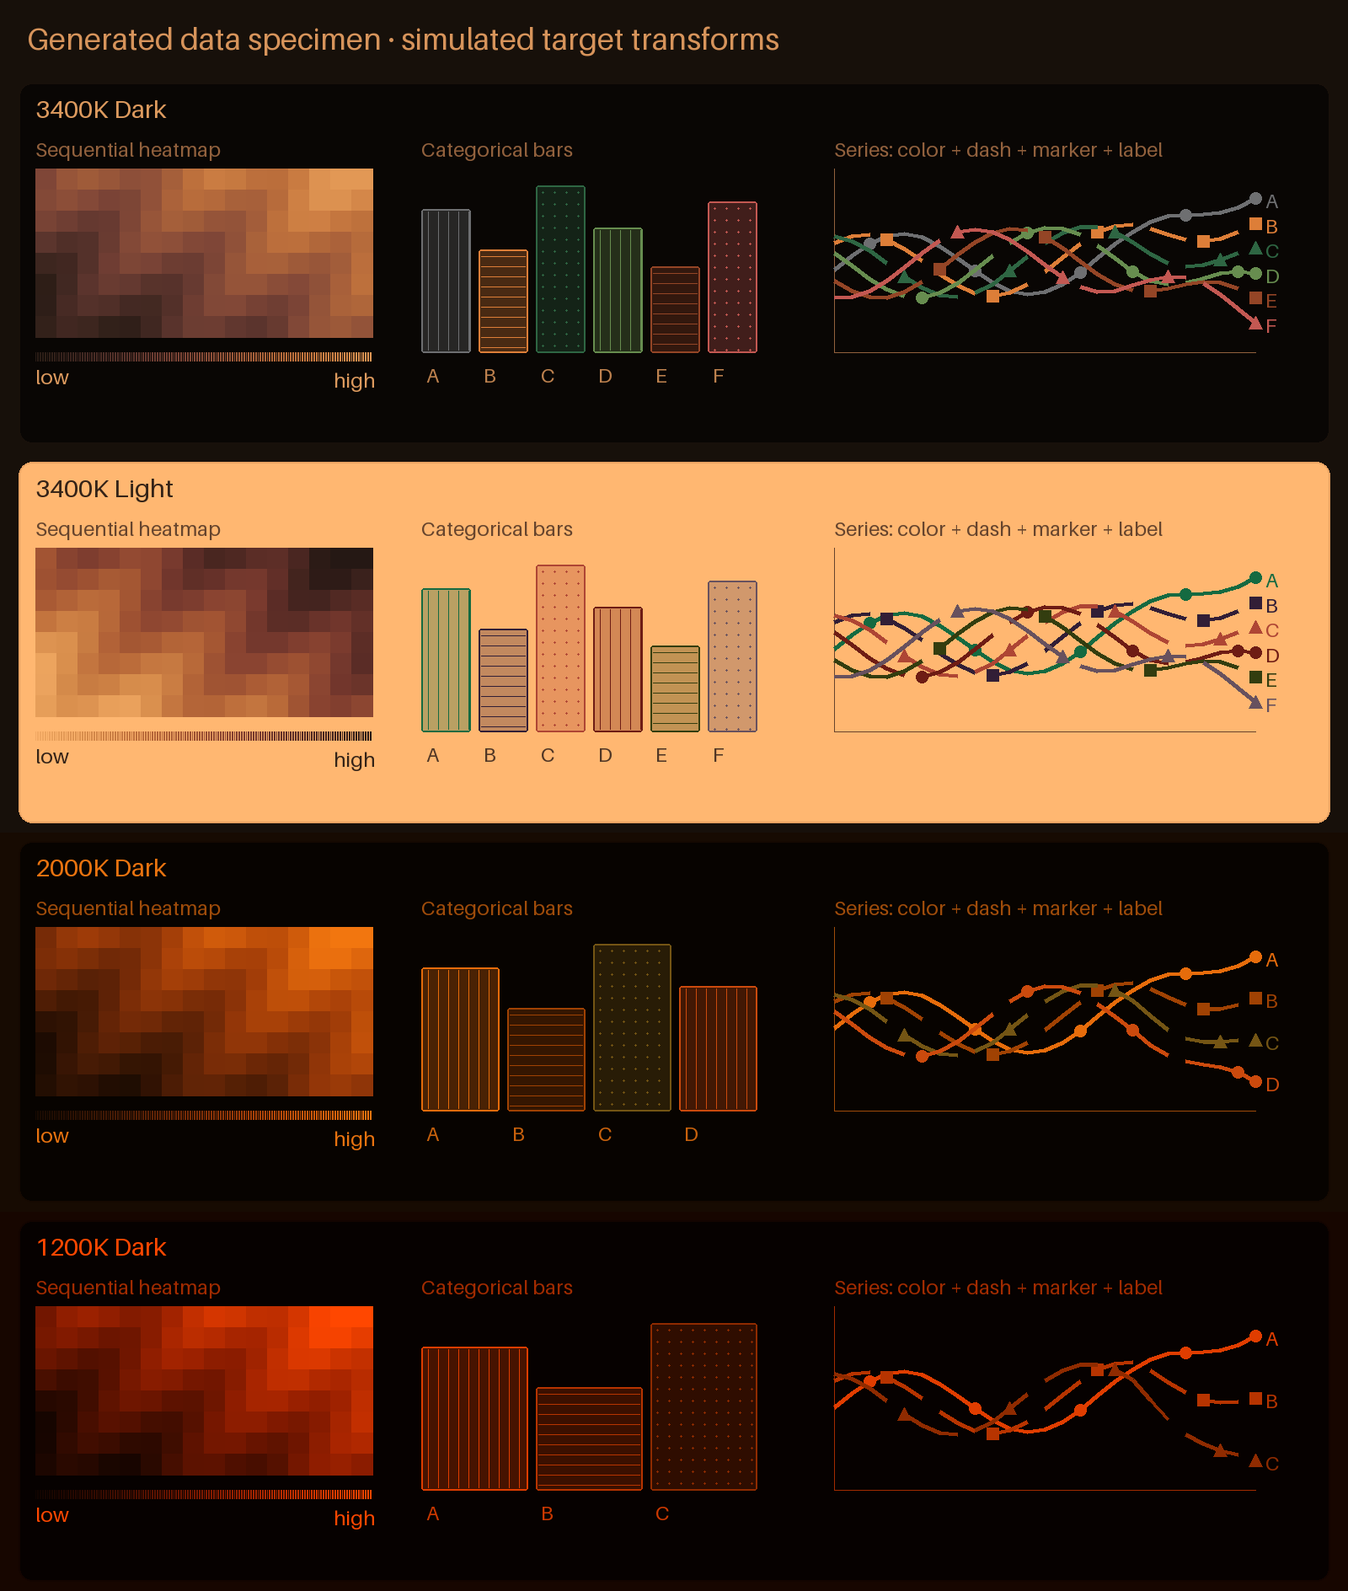
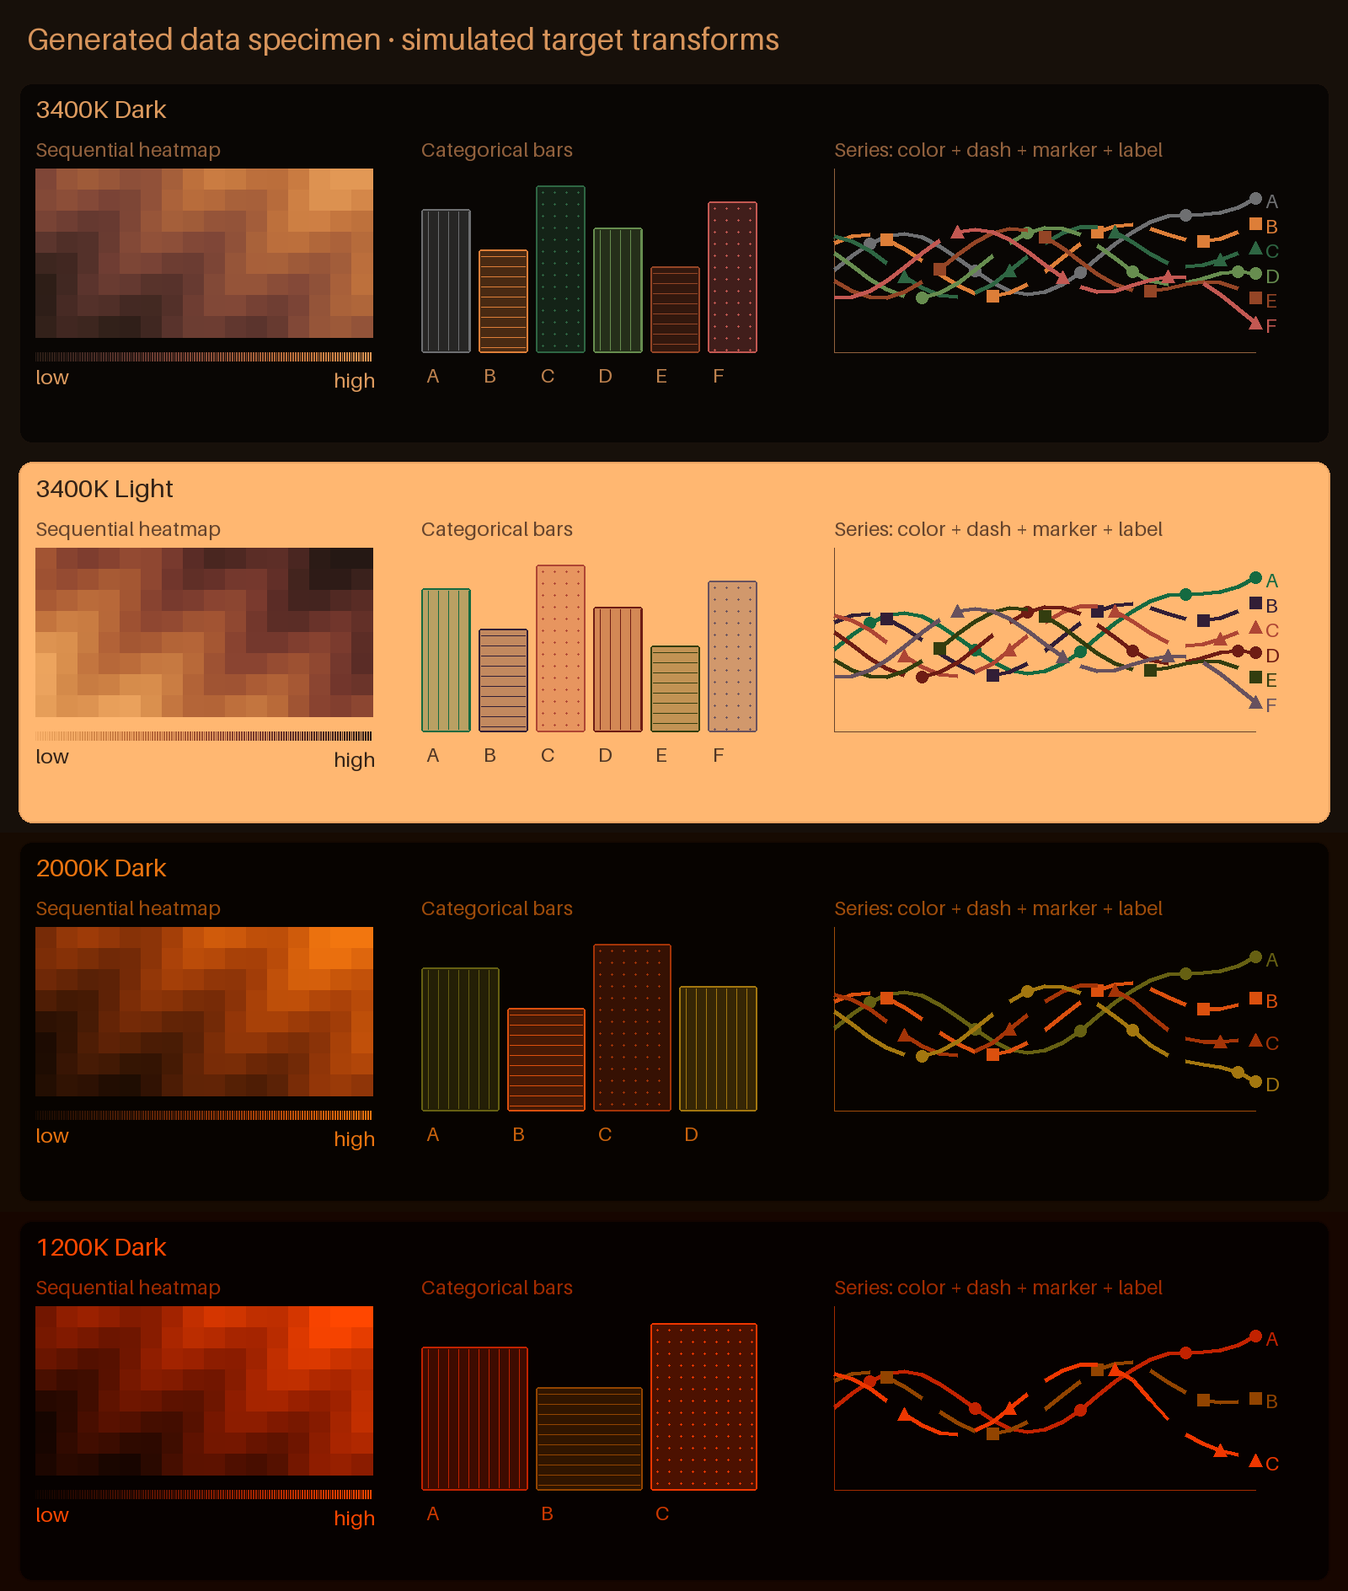
feat: widen deep categorical hues

diff --git a/palettes/redshift-safe-palettes.css b/palettes/redshift-safe-palettes.css
@@ -79,10 +79,10 @@
   --rs-foreground: #E9D3AD; /* legacy alias */
   --rs-foreground-soft: #C8B38F; /* legacy alias */
   --rs-foreground-muted: #9F8B70; /* legacy alias */
-  --rs-category-one: #E6C682;
-  --rs-category-two: #A07928;
-  --rs-category-three: #749DE1;
-  --rs-category-four: #CB8991;
+  --rs-category-one: #66B1D4;
+  --rs-category-two: #DB93A7;
+  --rs-category-three: #A46056;
+  --rs-category-four: #A3DBA9;
   --rs-sequential: linear-gradient(90deg, #17110F 0%, #2B1F1F 10%, #3F2C2E 20%, #553A3D 30%, #6C484A 40%, #845955 50%, #9B6B5C 60%, #B18165 70%, #C89D75 80%, #DDBB90 90%, #F2D9AE 100%);
 }
 
@@ -106,8 +106,8 @@
   --rs-foreground: #FFE5BE; /* legacy alias */
   --rs-foreground-soft: #CBB58F; /* legacy alias */
   --rs-foreground-muted: #A28B70; /* legacy alias */
-  --rs-category-one: #E0C47A;
-  --rs-category-two: #B7A7F3;
-  --rs-category-three: #8F8A33;
+  --rs-category-one: #C26D76;
+  --rs-category-two: #92DBFF;
+  --rs-category-three: #EFB371;
   --rs-sequential: linear-gradient(90deg, #100C0B 0%, #241817 10%, #392523 20%, #4F322F 30%, #67413A 40%, #805247 50%, #986855 60%, #B08366 70%, #CAA37E 80%, #E5C49B 90%, #FFE5B8 100%);
 }

diff --git a/tests/test_palettes.py b/tests/test_palettes.py
@@ -25,7 +25,8 @@ ROOT = Path(__file__).resolve().parents[1]
 
 def test_honest_temperature_families() -> None:
     manifest = generate_manifest()
-    assert manifest["schema_version"] == 6
+    assert manifest["schema_version"] == 7
+    assert manifest["quality_targets"]["cross_state_hue_consistency_required"] is False
     assert list(manifest["families"]) == [
         "3400k-dark",
         "3400k-light",
@@ -87,15 +88,15 @@ def test_deep_accent_selections_have_locked_two_stage_values() -> None:
     manifest = generate_manifest()
     expected = {
         "2000k-dark": {
-            "categorical": ["#E6C682", "#A07928", "#749DE1", "#CB8991"],
-            "categorical_transformed_targets": ["#E66C0B", "#A04203", "#745514", "#CB4A0D"],
+            "categorical": ["#66B1D4", "#DB93A7", "#A46056", "#A3DBA9"],
+            "categorical_transformed_targets": ["#666012", "#DB500F", "#A43407", "#A3770F"],
             "terminal": ["#EE8B98", "#A4EBA5", "#FECE75", "#C9C7F2"],
             "terminal_transformed_targets": ["#EE4C0D", "#A4800E", "#FE700A", "#C96C15"],
             "terminal_ansi_indices": [0, 1, 2, 3, 0, 1],
         },
         "1200k-dark": {
-            "categorical": ["#E0C47A", "#B7A7F3", "#8F8A33"],
-            "categorical_transformed_targets": ["#E03D00", "#B73400", "#8F2B00"],
+            "categorical": ["#C26D76", "#92DBFF", "#EFB371"],
+            "categorical_transformed_targets": ["#C22200", "#924400", "#EF3700"],
             "terminal": ["#F494B4", "#E2F495", "#FFE4C6"],
             "terminal_transformed_targets": ["#F42E00", "#E24B00", "#FF4700"],
             "terminal_ansi_indices": [0, 1, 2, 2, 0, 1],
@@ -162,14 +163,37 @@ def test_categorical_bi_state_separation_and_commanded_chroma_budget() -> None:
         lightness_range = float(np.ptp(shifted[:, 0]))
         normal_chroma_max = float(np.linalg.norm(normal[:, 1:], axis=1).max())
         normal_chroma_mean = float(np.linalg.norm(normal[:, 1:], axis=1).mean())
+        normal_hues = np.degrees(np.arctan2(normal[:, 2], normal[:, 1])) % 360.0
+        normal_hue_gap = min(
+            abs((normal_hues[left] - normal_hues[right] + 180.0) % 360.0 - 180.0)
+            for left in range(len(normal_hues))
+            for right in range(left + 1, len(normal_hues))
+        )
+        transformed_background = warm_transform(
+            hex_to_srgb(family["surfaces"]["bg_0"]), profile["rgb_gains"]
+        )
+        shifted_background_contrast = min(
+            contrast_ratio(warm_transform(color, profile["rgb_gains"]), transformed_background)
+            for color in categories
+        )
         target_error = float(np.linalg.norm(shifted - transformed_targets, axis=1).max() * 100.0)
         metrics = family["metrics"]["categorical"]
         assert shifted_min >= profile["categorical_minimum_delta_e_ok_target"], family["slug"]
         assert normal_chroma_max <= 0.111, family["slug"]
         assert 0.09 <= normal_chroma_mean <= 0.105, family["slug"]
         assert normal_min >= family["daylight_minimum_delta_e_ok_target"], family["slug"]
+        hue_gap_target = family["daylight_minimum_hue_gap_degrees_target"]
+        if hue_gap_target is not None:
+            assert normal_hue_gap >= hue_gap_target, family["slug"]
+        contrast_target = family["categorical_shifted_background_contrast_minimum_target"]
+        if contrast_target is not None:
+            assert shifted_background_contrast >= contrast_target, family["slug"]
         assert metrics["shifted_min_delta_e_ok"] == round(shifted_min, 2)
         assert metrics["normal_min_delta_e_ok"] == round(normal_min, 2)
+        assert metrics["normal_minimum_hue_gap_degrees"] == round(normal_hue_gap, 2)
+        assert metrics["minimum_shifted_background_contrast"] == round(
+            shifted_background_contrast, 2
+        )
         assert metrics["shifted_lightness_range"] == round(lightness_range, 4)
         assert metrics["normal_chroma_max"] == round(normal_chroma_max, 4)
         assert metrics["normal_chroma_mean"] == round(normal_chroma_mean, 4)

diff --git a/src/redshift_safe/generate.py b/src/redshift_safe/generate.py
@@ -55,6 +55,19 @@ def _categorical_colors(family: FamilyDefinition) -> np.ndarray:
     return np.asarray([hex_to_srgb(value) for value in family.categorical_colors])
 
 
+def _minimum_hue_gap_degrees(colors: np.ndarray) -> float:
+    """Return the minimum circular Oklab hue gap among chromatic colors."""
+
+    chromatic = colors[np.linalg.norm(colors[:, 1:], axis=1) >= 0.02]
+    hues = np.degrees(np.arctan2(chromatic[:, 2], chromatic[:, 1])) % 360.0
+    gaps = [
+        abs((hues[left] - hues[right] + 180.0) % 360.0 - 180.0)
+        for left in range(len(hues))
+        for right in range(left + 1, len(hues))
+    ]
+    return float(min(gaps))
+
+
 def _terminal_colors(family: FamilyDefinition) -> list[str]:
     """Expand authored semantic accents into the six ANSI color roles."""
 
@@ -124,12 +137,21 @@ def _metrics(
     gains = family.profile.gains
     warm_categories = perceived_lab(categories, gains)
     normal_categories = srgb_to_oklab(categories)
+    transformed_background = warm_transform(hex_to_srgb(family.surfaces["bg_0"]), gains)
     categorical_targets = srgb_to_oklab(
         np.asarray([hex_to_srgb(value) for value in family.categorical_transformed_targets])
     )
     category_metrics: dict[str, Any] = {
         "normal_min_delta_e_ok": round(float(pairwise_distances(normal_categories).min()), 2),
+        "normal_minimum_hue_gap_degrees": round(_minimum_hue_gap_degrees(normal_categories), 2),
         "shifted_min_delta_e_ok": round(float(pairwise_distances(warm_categories).min()), 2),
+        "minimum_shifted_background_contrast": round(
+            min(
+                contrast_ratio(warm_transform(color, gains), transformed_background)
+                for color in categories
+            ),
+            2,
+        ),
         "shifted_lightness_mean": round(float(warm_categories[:, 0].mean()), 4),
         "shifted_lightness_range": round(float(np.ptp(warm_categories[:, 0])), 4),
         "normal_chroma_max": round(
@@ -278,6 +300,10 @@ def generate_family(family: FamilyDefinition) -> dict[str, Any]:
         "categorical": dict(zip(CATEGORY_NAMES, category_hex)),
         "categorical_transformed_targets": list(family.categorical_transformed_targets),
         "daylight_minimum_delta_e_ok_target": family.daylight_minimum_delta_e_ok,
+        "daylight_minimum_hue_gap_degrees_target": (family.daylight_minimum_hue_gap_degrees),
+        "categorical_shifted_background_contrast_minimum_target": (
+            family.categorical_shifted_background_contrast_minimum
+        ),
         "continuous_rgb": sequential.tolist(),
         "continuous_hex8": [srgb_to_hex(color) for color in sequential],
         "metrics": _metrics(family, categories, sequential),
@@ -296,7 +322,7 @@ def generate_manifest() -> dict[str, Any]:
         for slug, profile in {family.profile.slug: family.profile for family in FAMILIES}.items()
     }
     return {
-        "schema_version": 6,
+        "schema_version": 7,
         "project": "Ember: Redshift Safe Color Palettes",
         "model_note": (
             "RGB gains are explicit engineering stress profiles, not device calibrations or "
@@ -318,6 +344,7 @@ def generate_manifest() -> dict[str, Any]:
                 "match authored transformed perceptual outcomes",
                 "optimize commanded daytime aesthetics without weakening transformed outcomes",
             ],
+            "cross_state_hue_consistency_required": False,
             "bg_roles_low_to_high": list(BACKGROUND_SURFACE_ROLES),
             "dark_minimum_adjacent_surface_delta_e_ok": (DARK_MINIMUM_ADJACENT_SURFACE_DELTA_E_OK),
             "minimum_shifted_foreground_contrast": MINIMUM_SHIFTED_FOREGROUND_CONTRAST,

diff --git a/src/redshift_safe/definitions.py b/src/redshift_safe/definitions.py
@@ -25,6 +25,8 @@ class FamilyDefinition:
     categorical_colors: tuple[str, ...]
     categorical_transformed_targets: tuple[str, ...]
     daylight_minimum_delta_e_ok: float
+    daylight_minimum_hue_gap_degrees: float | None
+    categorical_shifted_background_contrast_minimum: float | None
     terminal_colors: tuple[str, ...]
     terminal_transformed_targets: tuple[str, ...]
     terminal_ansi_indices: tuple[int, ...]
@@ -151,6 +153,8 @@ FAMILIES = (
             "#C35852",
         ),
         daylight_minimum_delta_e_ok=14.0,
+        daylight_minimum_hue_gap_degrees=None,
+        categorical_shifted_background_contrast_minimum=None,
         terminal_colors=("#F5AD9A", "#9ABEA2", "#CEA866", "#B4C6F7", "#D895C2", "#70DBD8"),
         terminal_transformed_targets=(
             "#F58052",
@@ -192,6 +196,8 @@ FAMILIES = (
             "#67515E",
         ),
         daylight_minimum_delta_e_ok=15.0,
+        daylight_minimum_hue_gap_degrees=None,
+        categorical_shifted_background_contrast_minimum=None,
         terminal_colors=("#470D05", "#174213", "#745C08", "#162252", "#643563", "#00766E"),
         terminal_transformed_targets=(
             "#470A03",
@@ -223,12 +229,14 @@ FAMILIES = (
             "fg_1": "#C8B38F",
             "fg_2": "#9F8B70",
         },
-        # Stage 1 selects four warm transformed identities with >= 8.5 dEOK
-        # categorical spacing and four role-preserving terminal identities. Stage 2
-        # uses weakly surviving blue to recover a restrained daytime hue set.
-        categorical_colors=("#E6C682", "#A07928", "#749DE1", "#CB8991"),
-        categorical_transformed_targets=("#E66C0B", "#A04203", "#745514", "#CB4A0D"),
+        # The four transformed identities remain distinct and clear 3:1 against bg_0.
+        # Their daytime preimages deliberately use unrelated hue families: weak blue is
+        # optimization freedom, not a cross-state appearance-preservation constraint.
+        categorical_colors=("#66B1D4", "#DB93A7", "#A46056", "#A3DBA9"),
+        categorical_transformed_targets=("#666012", "#DB500F", "#A43407", "#A3770F"),
         daylight_minimum_delta_e_ok=14.0,
+        daylight_minimum_hue_gap_degrees=20.0,
+        categorical_shifted_background_contrast_minimum=3.0,
         terminal_colors=("#EE8B98", "#A4EBA5", "#FECE75", "#C9C7F2"),
         terminal_transformed_targets=("#EE4C0D", "#A4800E", "#FE700A", "#C96C15"),
         terminal_ansi_indices=(0, 1, 2, 3, 0, 1),
@@ -253,12 +261,14 @@ FAMILIES = (
             "fg_1": "#CBB58F",
             "fg_2": "#A28B70",
         },
-        # Stage 1 selects three equally spaced transformed warm identities. Stage 2
-        # uses the fully removed blue channel to produce gold, lavender, and olive
-        # by day without altering those nighttime outcomes.
-        categorical_colors=("#E0C47A", "#B7A7F3", "#8F8A33"),
-        categorical_transformed_targets=("#E03D00", "#B73400", "#8F2B00"),
+        # Three warm transformed identities clear 3:1 against bg_0. Their daytime
+        # preimages use blue's exact null direction for a mature rose/sky/apricot triad;
+        # category identity is stable, but cross-state hue appearance is intentionally not.
+        categorical_colors=("#C26D76", "#92DBFF", "#EFB371"),
+        categorical_transformed_targets=("#C22200", "#924400", "#EF3700"),
         daylight_minimum_delta_e_ok=20.0,
+        daylight_minimum_hue_gap_degrees=45.0,
+        categorical_shifted_background_contrast_minimum=3.0,
         terminal_colors=("#F494B4", "#E2F495", "#FFE4C6"),
         terminal_transformed_targets=("#F42E00", "#E24B00", "#FF4700"),
         terminal_ansi_indices=(0, 1, 2, 2, 0, 1),

diff --git a/tools/render_samples.py b/tools/render_samples.py
@@ -424,15 +424,17 @@ def sample_analysis_markdown(manifest: dict, destination: Path) -> str:
         "",
         "## Palette-level bi-state gates",
         "",
-        "| Family | Categories | Day min ΔEOK | Shifted min ΔEOK | Mean / max raw chroma | Min shifted terminal contrast |",
-        "|---|---:|---:|---:|---:|---:|",
+        "| Family | Categories | Day min ΔEOK | Day min hue gap | Shifted min ΔEOK | Min shifted category / bg contrast | Mean / max raw chroma | Min shifted terminal contrast |",
+        "|---|---:|---:|---:|---:|---:|---:|---:|",
     ]
     for family in manifest["families"].values():
         categorical = family["metrics"]["categorical"]
         lines.append(
             f"| {family['name']} | {len(family['categorical'])} | "
             f"{categorical['normal_min_delta_e_ok']:.2f} | "
+            f"{categorical['normal_minimum_hue_gap_degrees']:.2f}° | "
             f"{categorical['shifted_min_delta_e_ok']:.2f} | "
+            f"{categorical['minimum_shifted_background_contrast']:.2f}:1 | "
             f"{categorical['normal_chroma_mean']:.4f} / {categorical['normal_chroma_max']:.4f} | "
             f"{family['terminal_minimum_shifted_foreground_contrast']:.2f}:1 |"
         )
@@ -440,7 +442,9 @@ def sample_analysis_markdown(manifest: dict, destination: Path) -> str:
         [
             "",
             "Release gates: categorical commanded mean chroma 0.09–0.105 and maximum",
-            "chroma ≤ 0.111; family-specific daytime and transformed separation floors;",
+            "chroma ≤ 0.111; family-specific daytime, hue-gap, transformed-separation, and",
+            "graphical category/background contrast floors; cross-state hue consistency is",
+            "intentionally not required;",
             "authored transformed accent targets reproduced within 0.15 ΔEOK; transformed",
             "terminal foreground-capable ANSI slots ≥ 4.5:1; category and accent counts",
             "must never increase as the target temperature falls.",

diff --git a/README.md b/README.md
@@ -252,13 +252,14 @@ terminal palettes preserve those same transformed capacities while maintaining t
 contrast required by small monospaced glyphs: `6 / 6`, `6 / 6`, `4 / 4`, and `3 / 3`
 across the four families.
 
-The 2000 K terminal targets preserve four widely separated warm identities while their
-commanded colors retain conventional red, green, yellow, and blue meaning. The 1200 K
-categorical targets are equally spaced along a warm trajectory; its three terminal targets
-remain distinct after red, green, and yellow collapse into red-orange variants. Only after
-those nighttime structures are fixed do the commanded colors resolve into coherent daytime
-sets. Because lightness can imply order, categorical charts should still carry identity
-through labels, position, texture, marker, or line style.
+The terminal targets preserve conventional ANSI meaning by day and distinct warm identities
+after transformation. Categorical identity follows a looser and more useful contract: every
+slot must remain distinguishable in both states, but its hue does not need to look consistent
+between them. The 2000 K set uses weakly surviving blue for muted sky, rose, brick, and sage
+daytime identities; the 1200 K set uses blue's exact null direction for rose, sky, and apricot.
+The generated manifest records that cross-state hue consistency is not required. Because
+lightness can imply order, categorical charts should still carry identity through labels,
+position, texture, marker, or line style.
 
 ![Redundant line encoding under deep red](docs/diagrams/redundant-encoding.svg)
 
@@ -284,8 +285,16 @@ formula.
 |---|---:|---:|---:|---:|---:|---:|
 | 3400K Dark | 6 | 15.00 | 11.45 | 0.0969 / 0.1045 | 0.2227 | 6.06:1 |
 | 3400K Light | 6 | 15.91 | 13.76 | 0.1016 / 0.1053 | 0.2584 | 4.76:1 |
-| 2000K Dark | 4 | 14.84 | 9.01 | 0.0982 / 0.1104 | 0.1952 | 5.53:1 |
-| 1200K Dark | 3 | 21.00 | 8.65 | 0.1050 / 0.1082 | 0.1616 | 5.17:1 |
+| 2000K Dark | 4 | 16.50 | 12.59 | 0.0903 / 0.0907 | 0.1317 | 5.53:1 |
+| 1200K Dark | 3 | 20.03 | 10.05 | 0.1016 / 0.1086 | 0.1428 | 5.17:1 |
+
+Deep-profile daytime hue breadth and transformed category/background contrast are separate
+release gates. Contrast here is for graphical category marks, not small text.
+
+| Deep family | Day minimum hue gap | Target | Transformed category / `bg_0` | Target |
+|---|---:|---:|---:|---:|
+| 2000K Dark | 27.75° | ≥ 20° | 3.01:1 | ≥ 3:1 |
+| 1200K Dark | 54.05° | ≥ 45° | 3.01:1 | ≥ 3:1 |
 
 Dark-surface measurements use WCAG's sRGB relative-luminance calculation on the exact
 serialized Hex values. The contrast range covers transformed `fg_0` on all six background

diff --git a/docs/sample-analysis.md b/docs/sample-analysis.md
@@ -6,15 +6,17 @@ edges but cannot substitute for long-duration viewing on real hardware.
 
 ## Palette-level bi-state gates
 
-| Family | Categories | Day min ΔEOK | Shifted min ΔEOK | Mean / max raw chroma | Min shifted terminal contrast |
-|---|---:|---:|---:|---:|---:|
-| 3400K Dark | 6 | 15.00 | 11.45 | 0.0969 / 0.1045 | 6.06:1 |
-| 3400K Light | 6 | 15.91 | 13.76 | 0.1016 / 0.1053 | 4.76:1 |
-| 2000K Dark | 4 | 14.84 | 9.01 | 0.0982 / 0.1104 | 5.53:1 |
-| 1200K Dark | 3 | 21.00 | 8.65 | 0.1050 / 0.1082 | 5.17:1 |
+| Family | Categories | Day min ΔEOK | Day min hue gap | Shifted min ΔEOK | Min shifted category / bg contrast | Mean / max raw chroma | Min shifted terminal contrast |
+|---|---:|---:|---:|---:|---:|---:|---:|
+| 3400K Dark | 6 | 15.00 | 21.08° | 11.45 | 2.99:1 | 0.0969 / 0.1045 | 6.06:1 |
+| 3400K Light | 6 | 15.91 | 7.16° | 13.76 | 3.31:1 | 0.1016 / 0.1053 | 4.76:1 |
+| 2000K Dark | 4 | 16.50 | 27.75° | 12.59 | 3.01:1 | 0.0903 / 0.0907 | 5.53:1 |
+| 1200K Dark | 3 | 20.03 | 54.05° | 10.05 | 3.01:1 | 0.1016 / 0.1086 | 5.17:1 |
 
 Release gates: categorical commanded mean chroma 0.09–0.105 and maximum
-chroma ≤ 0.111; family-specific daytime and transformed separation floors;
+chroma ≤ 0.111; family-specific daytime, hue-gap, transformed-separation, and
+graphical category/background contrast floors; cross-state hue consistency is
+intentionally not required;
 authored transformed accent targets reproduced within 0.15 ΔEOK; transformed
 terminal foreground-capable ANSI slots ≥ 4.5:1; category and accent counts
 must never increase as the target temperature falls.
@@ -25,8 +27,8 @@ must never increase as the target temperature falls.
 |---|---:|---:|---:|
 | `terminal-commanded.png` | 2.1592% | 0.2486% | 0.0890 |
 | `terminal-simulated.png` | 1.0277% | 15.9670% | 0.1728 |
-| `data-commanded.png` | 1.5503% | 0.0000% | 0.1043 |
-| `data-simulated.png` | 0.7688% | 22.4936% | 0.1753 |
+| `data-commanded.png` | 1.5267% | 0.0000% | 0.1041 |
+| `data-simulated.png` | 0.7370% | 22.2983% | 0.1860 |
 
 Interpretation: small high-contrast edge fractions are expected around glyphs,
 axes, and markers. Commanded high-chroma area should remain scarce. A deep warm

diff --git a/MIGRATION.md b/MIGRATION.md
@@ -17,11 +17,16 @@ rises across dark families and falls across the light family. Generated CSS prov
 migration aliases. JSON and `surfaces()` return only the
 numeric names; the manifest's `legacy_surface_role_aliases` map supports migration.
 
-The JSON schema is version 6. It adds manifest-level surface-role, luminance, separation,
+The JSON schema is version 7. It adds manifest-level surface-role, luminance, separation,
 primary-text-contrast, and accent-selection targets plus per-family commanded/transformed
 measurements. The canonical surface ordering is recorded in
 `quality_targets.bg_roles_low_to_high`. Python consumers can retrieve an independent copy
 of every named UI color with `redshift_safe.surfaces(slug)`.
+
+Schema 7 explicitly records `cross_state_hue_consistency_required: false` and adds
+per-family daytime hue-gap and transformed categorical-background contrast targets. The
+2000 K and 1200 K categorical values changed accordingly: category identity remains stable,
+but commanded and transformed hues are free to differ when both states remain distinct.
 
 Accent selection is now explicitly transformed-first and commanded-second. Each family
 publishes `categorical_transformed_targets` and `terminal_transformed_targets`; metrics report
